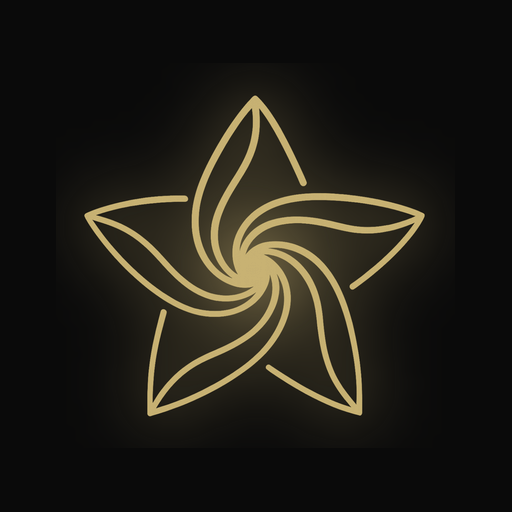
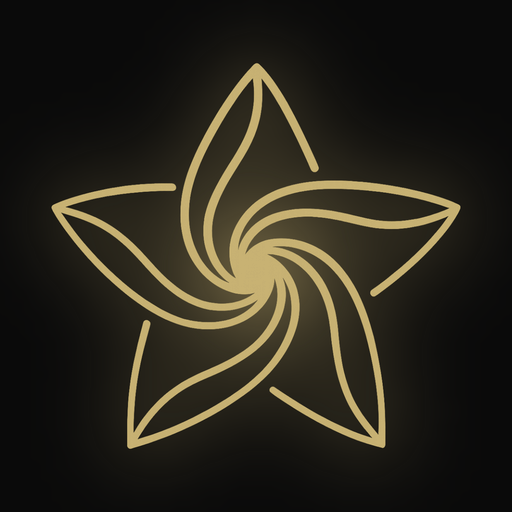
Renovar iconos PWA de S.T.A.R.S.

Changed region(s): [[0.0938, 0.125, 0.9062, 0.875]]

diff --git a/sw.js b/sw.js
@@ -1,9 +1,9 @@
 /* ══════════════════════════════════════════════
-   S · T · A · R · S · Service Worker v46
+   S · T · A · R · S · Service Worker v47
    Activación inmediata y actualización al abrir o retomar la PWA
    JSON dinámicos: Network-first sin caché agresivo
 ══════════════════════════════════════════════ */
-const SW_VERSION = 'stars-v46';
+const SW_VERSION = 'stars-v47';
 const CACHE_NAME = SW_VERSION;
 const SHELL_FILES = [
   '/',
@@ -11,6 +11,8 @@ const SHELL_FILES = [
   '/manifest.json',
   '/logo-v2.png',
   '/logo-stars-lockup-crop.png',
+  '/icons/favicon.ico',
+  '/icons/favicon-32.png',
   '/icons/stars-favicon-v2.png',
   '/icons/apple-touch-icon-v2.png',
   '/icons/icon-192-v2.png',

diff --git a/index.html b/index.html
@@ -9,8 +9,10 @@
 <meta name="apple-mobile-web-app-status-bar-style" content="black-translucent">
 <meta name="apple-mobile-web-app-title" content="S · T · A · R · S">
 <link rel="manifest" href="/manifest.json">
+<link rel="icon" type="image/x-icon" href="/icons/favicon.ico">
+<link rel="icon" type="image/png" sizes="32x32" href="/icons/favicon-32.png">
 <link rel="icon" type="image/png" sizes="64x64" href="/icons/stars-favicon-v2.png">
-<link rel="shortcut icon" type="image/png" href="/icons/stars-favicon-v2.png">
+<link rel="shortcut icon" type="image/x-icon" href="/icons/favicon.ico">
 <link rel="apple-touch-icon" sizes="180x180" href="/icons/apple-touch-icon-v2.png">
 <meta name="mobile-web-app-capable" content="yes">
 <meta name="application-name" content="S · T · A · R · S">
